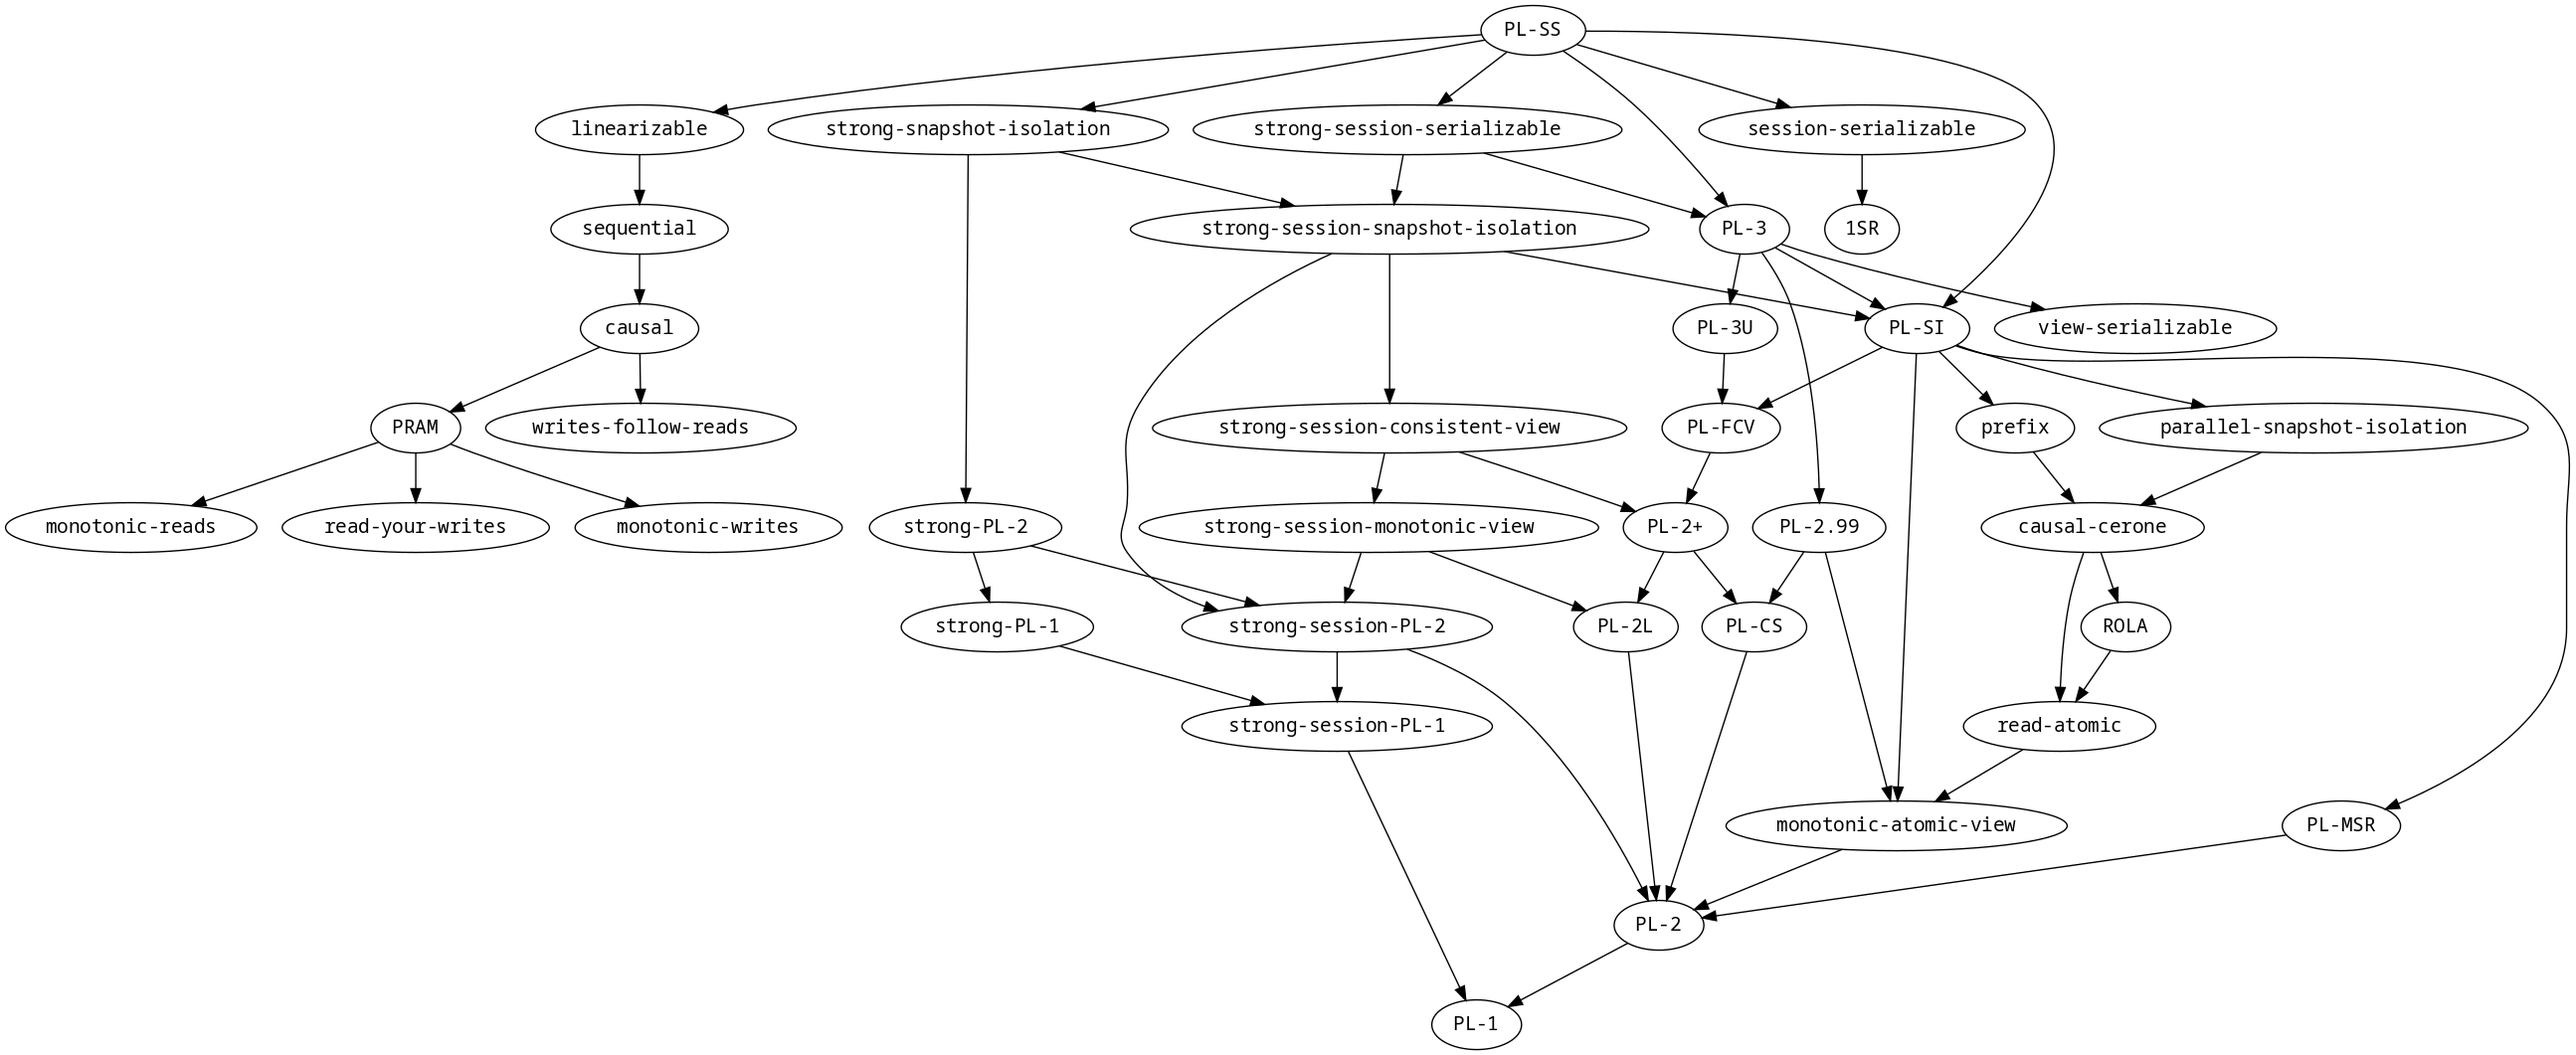
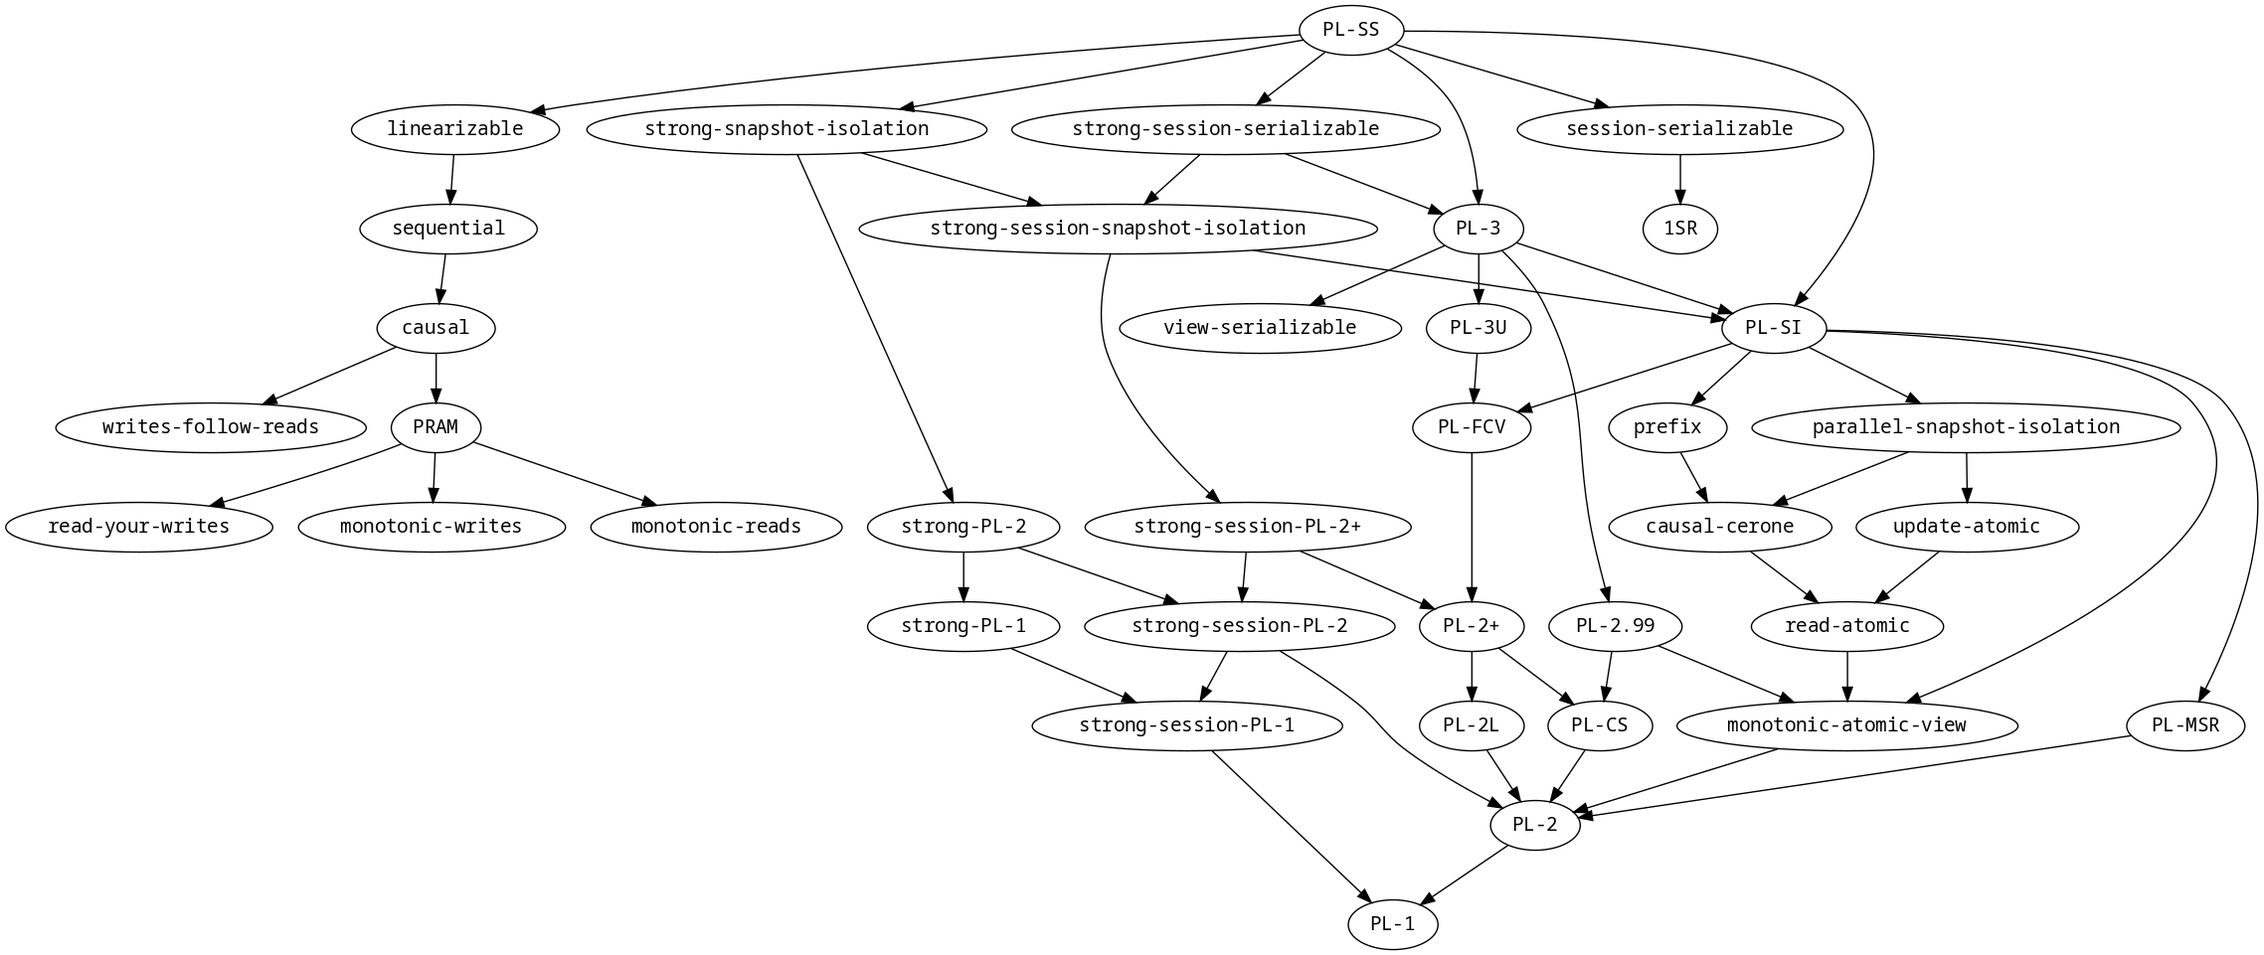
tune causal opts, remove unused code ,keep docs current

Changed region(s): [[0.0, 0.0, 0.9978, 0.9053], [0.5613, 0.9053, 0.6236, 0.999], [0.7172, 0.0312, 0.7795, 0.0624]]

diff --git a/README.md b/README.md
@@ -7,10 +7,11 @@ Designed for testing CRDTs.
 ### Uses Elle, Jepsen's checker:
 
   - Adya's PL-2+, Consistent View, as the consistency model
+    - minus the Lost Update anomaly, the update isn't lost, it's eventually and consistently merged 
   - extends Elle's consistency model graph to include strong-session-consistent-view
-    - fills in the gap between strong-session PL-2, Read Committed, and PL-SI, Snapshot Isolation
+    - fills in the gap between strong-session PL-2, Read Committed, and strong-session PL-SI, Snapshot Isolation
     - Causal Consistency needs process ordering
-  - extends the rw_register test with graphs for
+  - extends the rw_register test with version graphs for
     - writes follow reads
     - monotonic writes
 
@@ -73,17 +74,21 @@ Look for `strong-session-consistent-view`:
 
 ![New Elle Model Graph](doc/models.png)
 
+----
+
+### Opts to Configure Elle for Causal Consistency
+
 ```clj
-; changes to consistency-models
-
-{:strong-session-monotonic-view  [:monotonic-view  :strong-session-PL-2]
- :strong-session-consistent-view [:consistent-view :strong-session-monotonic-view]
-
- :strong-session-snapshot-isolation [:snapshot-isolation
-                                     :strong-session-PL-2
-                                     :strong-session-consistent-view]}
-
-{:strong-session-monotonic-view  [:G1-process]
- :strong-session-consistent-view [:G1-process
-                                  :G-single-process]}
+(def causal-opts
+  ; rw_register provides:
+  ;   - initial nil -> all versions for all keys
+  ;   - w->r
+  ;   - ww and rw dependencies, as derived from a version order
+  {:consistency-models [:strong-session-consistent-view] ; Elle's strong-session with Adya's formalism for causal consistency
+   :anomalies [:internal]                                ; basic hygiene
+   :anomalies-ignored [:lost-update]                     ; `lost-update`s are causally Ok, they are PL-2+, Adya 4.1.3
+   :sequential-keys? true                                ; infer version order from elle/process-graph
+   :wfr-keys? true                                       ; wfr-version-graph when <rw within txns
+   :wfr-txns? true                                       ; wfr-txn-graph used to infer version order
+   })
 ```
